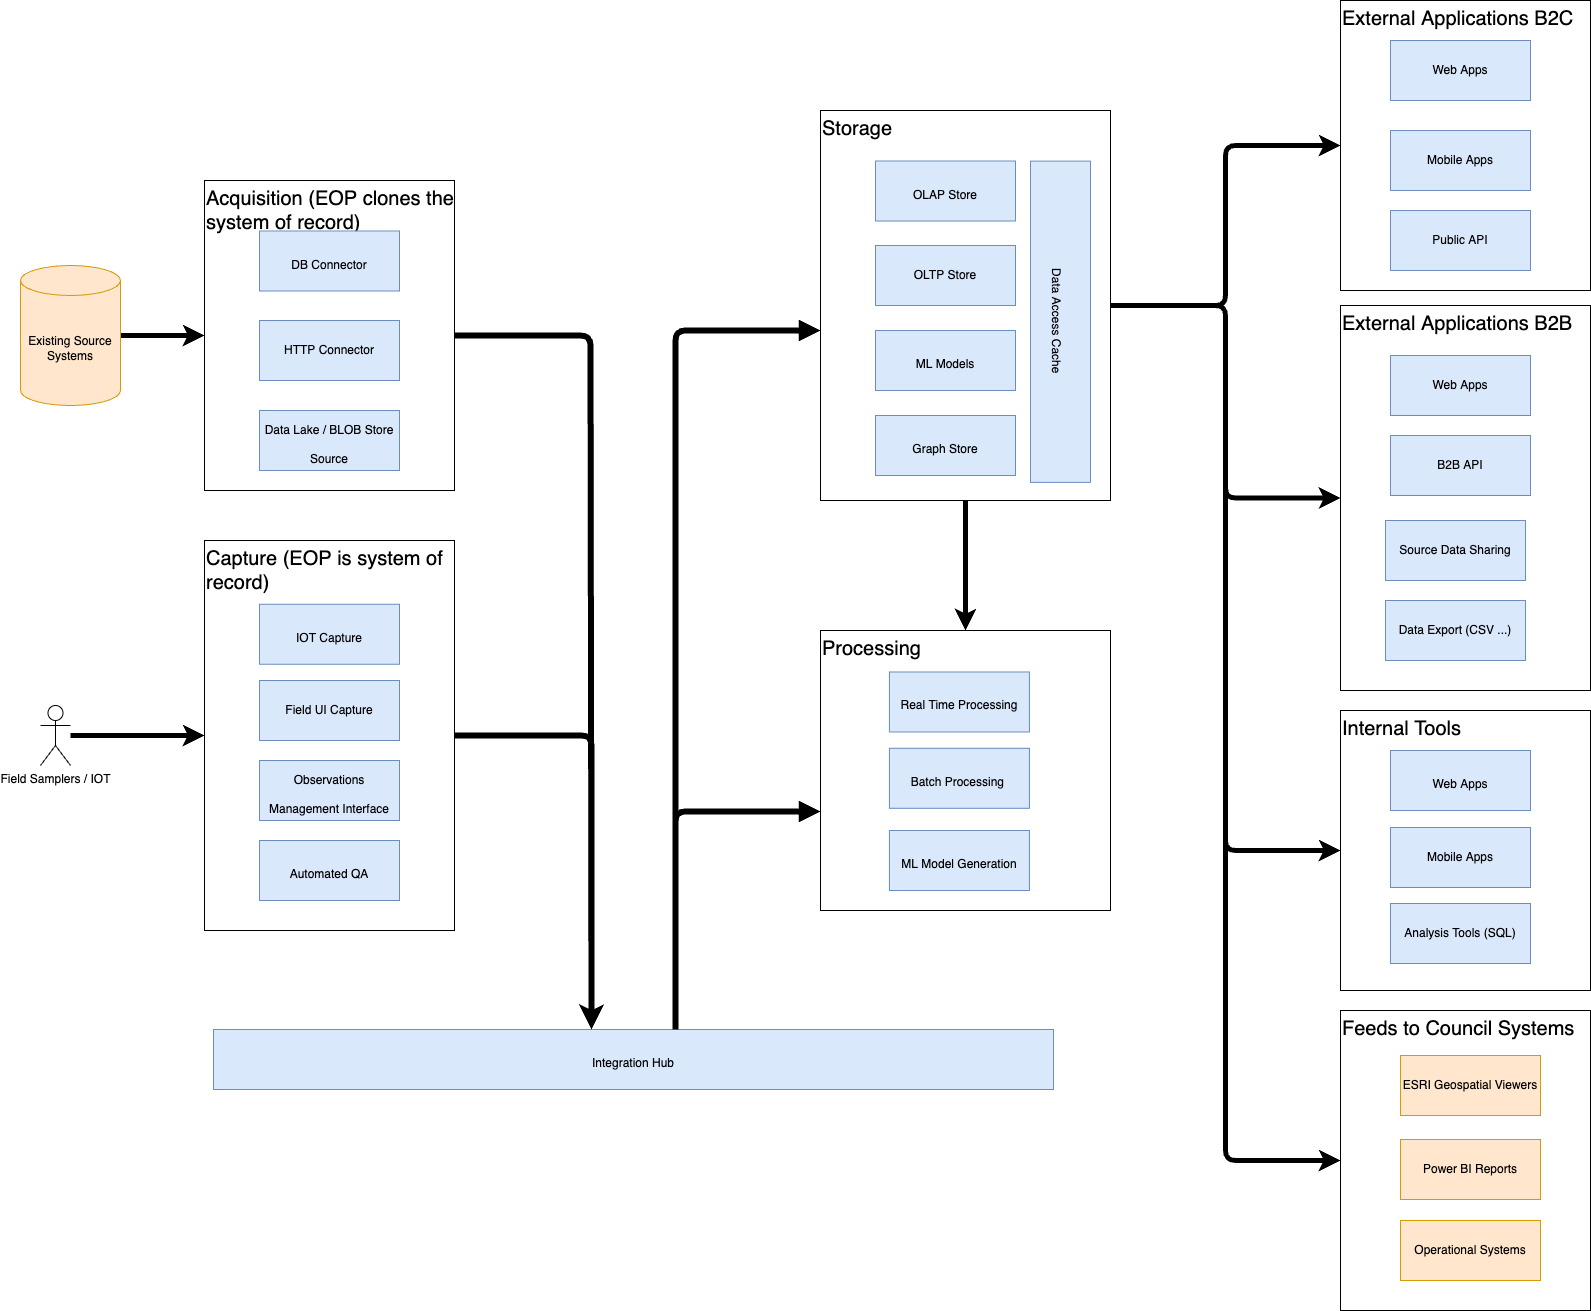
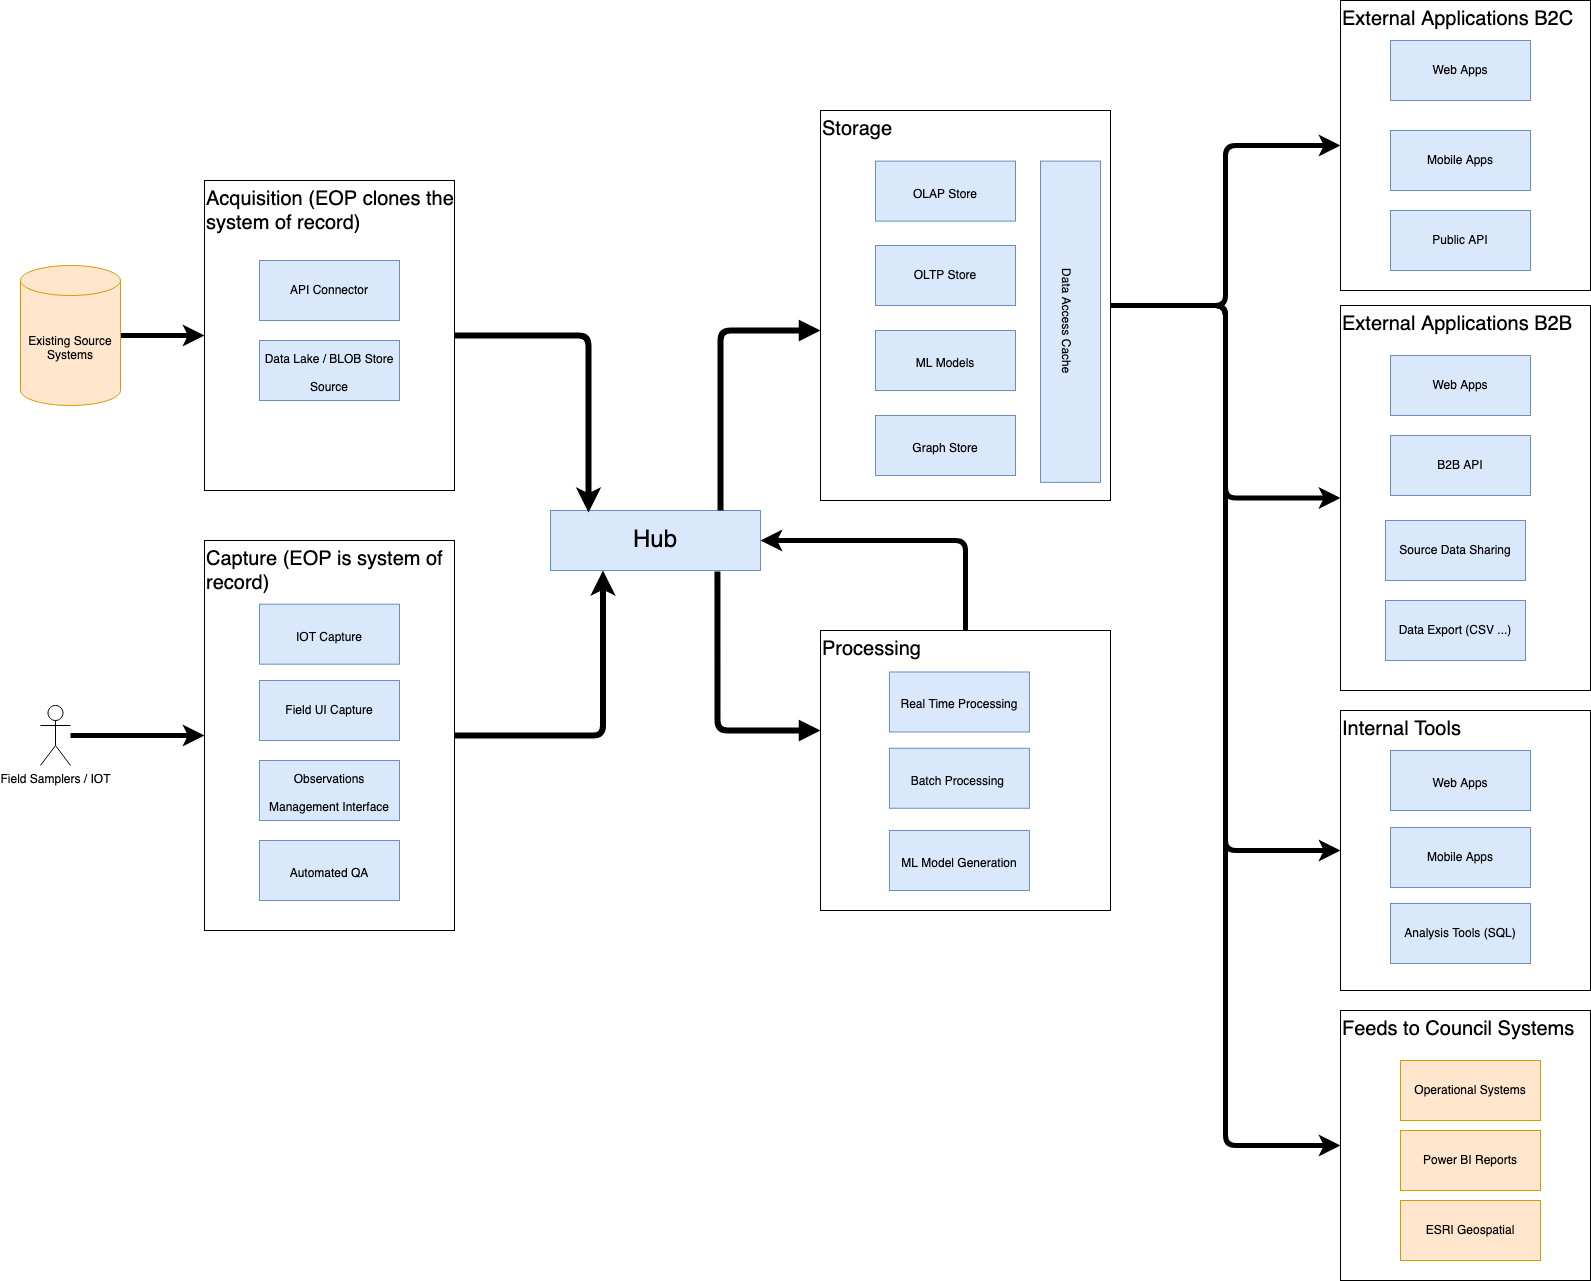
Docs: Technical Design (#73)
* Moveing / renaming techincal design

* Pass of updating the Technical Design doc

* Update docs-site/src/markdown-pages/design/technical-design.md

* Update docs-site/src/markdown-pages/design/technical-design.md

* Update docs-site/src/markdown-pages/design/technical-design.md

* Update docs-site/src/markdown-pages/design/technical-design.md

* Update docs-site/src/markdown-pages/design/technical-design.md

* Update docs-site/src/markdown-pages/design/technical-design.md

* Update docs-site/src/markdown-pages/design/technical-design.md

* Tweak header levels

---------

diff --git a/docs-site/src/markdown-pages/technical-design/index.md b/docs-site/src/markdown-pages/technical-design/index.md
@@ -1,111 +1,150 @@
 ---
-slug: /technical-design/
+slug: /technical-design
 title: Technical Design
 ---
 
-Placeholder Early WIP - This page describes a high level structure of EOP. This
-is the long term vision of what EOP may encompass.
+> This design is still subject to change as EOP evolves. In particular, it has
+> been developed without the scope intended by the proposed Environmental Data
+> Management System (EDMS) solution being clear. That may impact the scope of
+> what EOP does
 
-The intention is that any piece of work will focus on delivering an outcome and
-fit it into this architecture.
+## Principals
 
----
+These are the principles that drive the design and development of EOP.
+
+- **Leverage existing data** - Enable councils to reuse existing data and
+  integrate this in ways that produce outcomes that are currently difficult.
+
+- **Design and delivery iteratively** - Plan for the future, but start small and
+  iterate, ensuring value and outcomes are delivered early.
+
+- **Support real-time and batch** - Design to support real-time and batch
+  processing. Use the data and outcomes to drive which is required, rather than
+  technical choices and constraints.
+
+- **Plan for scale** - Anticpate and design for the scale required to support
+  the needs of multiple councils.
+
+- **Designed for integration** - Enable EOP to integrate well with other system
+  including systems of record and services that EOP can add value to.
 
 ## Structure
 
-At a high level the solution breaks into a number of areas:
+EOP is being developed as a hub and spoke model. Data is captured or acquired
+from external sources and sent to a central hub in a raw format. This can then
+be consumed for procesing and storage by multiple components depending on needs.
 
-- **Acquisition** - how information sourced mastered in other systems gets into
-  EOP
-- **Capture** - how information that is mastered in EOP gets captured, quality
-  assured, and published
-- **Storage** - how EOP stores information in ways that are accessible for
-  different access needs
-- **Processing** - how EOP translates information bought into EOP into more
-  useable information for presentation to users
-- **Output** - the most important stage, how EOP delivers outcomes to end users
-  in a way that provides value to them
+As an example, the same data captured in the Hub might be subsequently stored in
+a data warehouse for analysis, and also processed in realtime for operational
+alerting.
 
-The following diagram shows the high level relationship between these
-components, note the arrows shown and covering the top level data flows.
+[Kafka](https://kafka.apache.org/) has been chosen as a scalable,
+loosely-coupled Hub, with well supported connectors to other systems. Kafka is
+often used for real time processing, and is also well suited to consuming data
+that from batch processes.
+
+The following diagram shows the high-level relationship between the different
+classes of components that will be delivered around the hub
 
 ![High Level Overview Diagram](./high-level-overview.png)
 
-## Integration Hub
-
-A key part of the overall design is how to move data between the various
-components in and managable and robust way. Proposed direction is "Hub and
-Spoke" vs Bus style to allow
-
-Peice of the picture is the "Integration Hub" which provides a centralised point
-for landing data in EOP and distributing it to the other components.
-
-In the diagram the integratio hub is this is highlighted as the interface
-between the Acquisiton/Capture area and the Storage/Processing as this is the
-key integration point. This hub will also be used for the transfer of data
-between any component in the solution and allows for
-
-Technology choice here is [Kafka](https://kafka.apache.org/)
-
 ### Acquisition
 
-Acquisition is the process getting information from existing systems of record
-into the EOP platform so they can be used as part of delivering outcomes. These
-might be existing council systems or any third party systems that EOP has
-permission to collect information from.
+Acquisition components support ingestion of data from existing systems into EOP.
+These might be existing council systems or third party systems housing data
+which EOP can make use of. Acquisition will be the the initial focus for EOP.
 
-While in the long term, the intention is for EOP to become the system of record
-for observation data. This is intended to be the process for capturing
-information from any systems where the Regional Councils are not the master of
-the information e.g. Information exposed from Central Government or Citizen
-Science or it is not a core environmental data type to EOP e.g. Regional Plan
-Limits, Consenting information.
+The preference is for councils to push data to EOP, rather than for EOP to pull.
+This allows councils to control the frequency of updates. However, there will be
+some cases where pulling data from a system is required, such as data from third
+party systems that can't be changed.
 
-Key technology here is
-[Kafka Connect](https://kafka.apache.org/documentation/#connect) and connectors
-where they exist, or custom "Producer" components that can pull data from
-existing systems and push it into Kafka (e.g. pulling Observations from the
-Hilltop API).
+A special case is Hilltop. Because of its wide-use and existing APIs, EOP will
+support pulling data from council Hilltop instances.
+
+Example Acquisition components:
+
+- JSON API's exposed to councils
+- Data lake / Blob storage style end points for bulk data
+- Hilltop API
+- Direct connection from Kafka Connectors running in council environments
 
 ### Capture
 
-Capture is the process of getting information where EOP is the system of record.
+Capture components support ingestion of data where EOP is the system of record.
+These will be developed when there is an opportunity to improve on existing data
+capture tools for all councils, such as supporting newer data-standards or
+capturing meta-data not-supported by existing systems.
 
-This will primarily be for when existing processes are replaced with EOP
-provided tooling for capturing data.
+This type of component is a longer term goal for the EOP.
 
-Key technology here will be
+Example Capture components:
 
-- Initial capture of information
-- Automated QA of newly captured information
-- User interface for QA review
-- Dissemination of newly captured information
+- Field capture user interface that may be running on a mobile device
+- IOT endpoints for capturing data from sensors
+- User interfaces for QA review
 
-## Data Stores
+### Data Stores
 
-Information captured in the Acquisition / Creation processes needs to be stored
-for use in build outcome viewers, there will be different storage styles (OLTP,
-OLAP) depending on the type of access required.
+Multiple data store components may be used to allow modelling and querying based
+on the type analysis required.
 
-- Environmental Observations -
-- Geospatial Networks - Models for the geospatial relations between the
-- Regional Plan Targets/Limits -
-- Consented Use -
+Using a Hub and Spoke model allows the EOP to remain agnostic of the data store
+solutions used now and in the future.
 
-Information of these various types might make it into different data stores that
-are appropriate for the types of querying done
+Example Data store components:
 
-[this page](./data-sets)
+- OLTP database for fast operational access
+- OLAP database for slower analytical access
+- Graph database for network analysis
 
-## Processing
+### Processing
 
-Processing components
+Processing components perform analysis on the data stored in EOP.
 
-## Output
+These are decoupled from the data stores, and designed to be a key extension
+point for adding new analysis capability without affecting other components.
 
-Output systems take information captured in EOP and present it to users as
-usable "Outcomes".
+Example Processing components:
 
-- Export / API / Bulk Data
-- Technical access for science
+- Real time processing, driven from kafka streams
+- Batch processing, driven from data in OLAP data stores
+- Data science scripts (R / Python) for analysis e.g. Naturalised flow
+- AI model training
+
+### Output
+
+Output components present information captured and generated by EOP to various
+types of users, with a focus on outcomes.
+
+The diagram shows these grouped by the type of user emphasise a user-centric,
+rather than technology-centric approach. E.g. multiple web applications or APIs
+may be developed to serve difference audiences.
+
+Example Processing components:
+
 - UI Viewers
+- API endpoints
+- Bulk data downloads
+
+#### External Applications B2C
+
+Applications intended for public use. These should be focussed on presenting
+information and outcomes in a user-friendly way.
+
+#### External Applications B2B
+
+Applications intended for use by third-party organisations including central
+government. This could be information for particular types of reporting, often
+provided as exports for use in third party systems.
+
+#### Internal Tools
+
+Tools used by council staff to perform day-to-day work. These might
+task-focussed applications, developed for users with particular expertise in the
+data.
+
+#### Feeds to Council Systems
+
+These may be useful where EOP has created information that is valuable for
+presentation by existing council systems.
